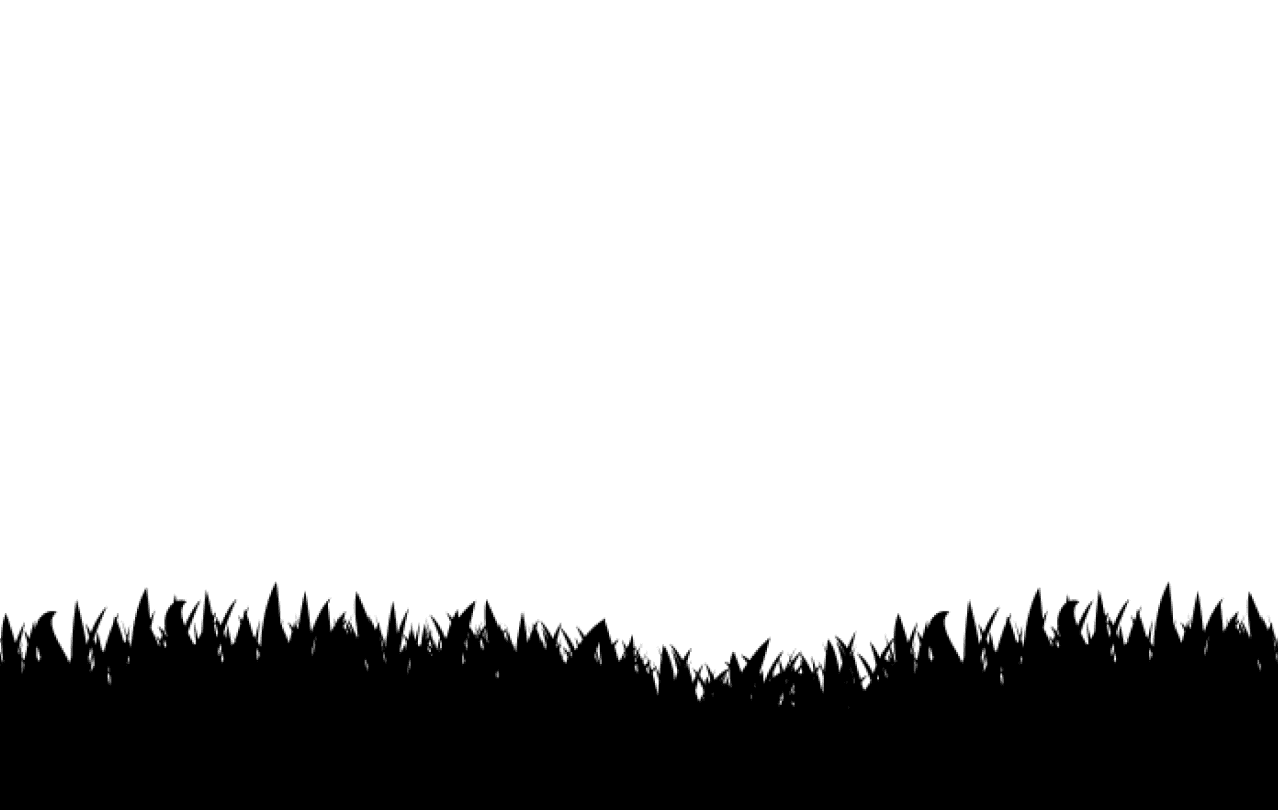
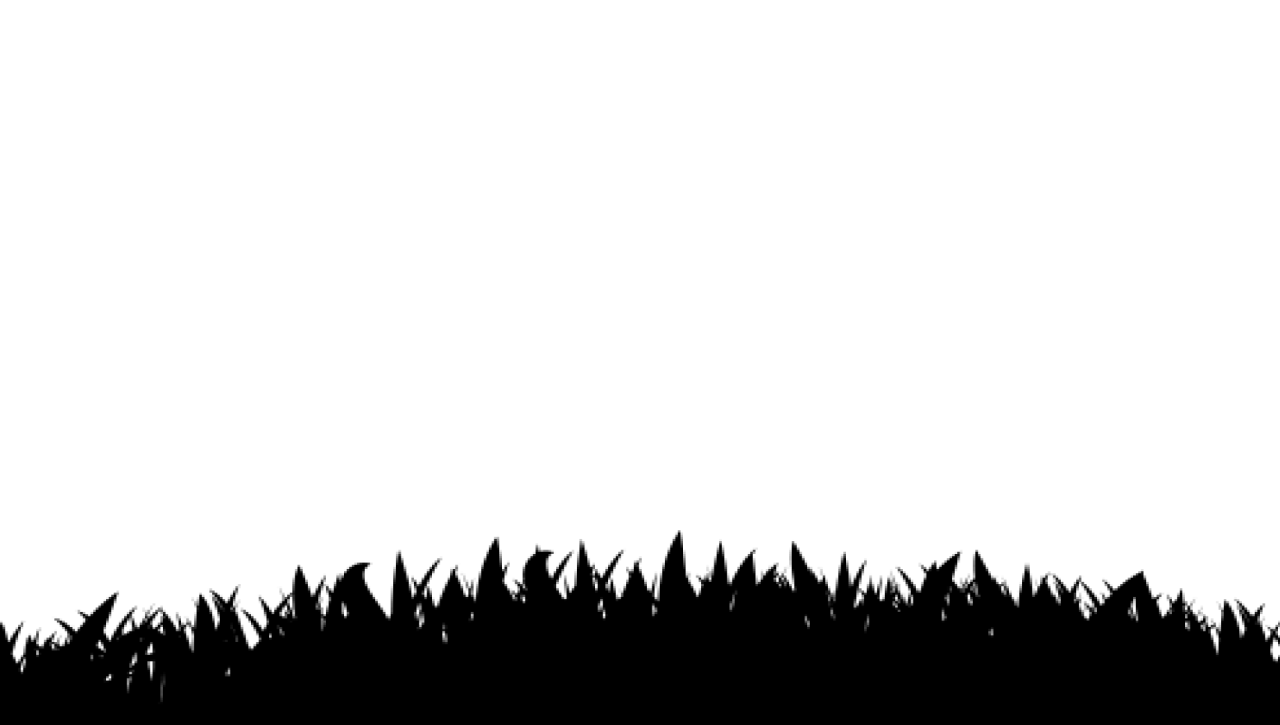
index parallax | land_tour RWD update

Changed region(s): [[0.0, 0.7283, 1.0, 0.9407]]

diff --git a/src/js/land_clock.js b/src/js/land_clock.js
@@ -3,84 +3,167 @@
 $(document).ready(function(){
     //資料庫渲染到前端
 
+    if(window.innerWidth > 576){
+        //網頁版用時鐘位移
+        let event_num =1;
+        let bg_num = 1;
+        setInterval((timeFloat),5000);
+        function timeFloat(){
+            let timeBegin = parseInt($(".progress-ring__circle").css("stroke-dashoffset"));
+            if(timeBegin > "-1472"){
+                //轉場黑幕(1-4)
+                $(".blackCover").animate({"opacity":"1"},{duration:0})
+                $(".blackCover").animate({"opacity":"0.3"},{duration:3000})
     
-    let event_num =1;
-    let bg_num = 1;
-    setInterval((timeFloat),5000);
-    function timeFloat(){
-        let timeBegin = parseInt($(".progress-ring__circle").css("stroke-dashoffset"));
-        if(timeBegin > "-1472"){
-            //轉場黑幕(1-4)
-            $(".blackCover").animate({"opacity":"1"},{duration:0})
-            $(".blackCover").animate({"opacity":"0.3"},{duration:3000})
-
-            //中心文字(隱藏1-4活動)
-            $(`.event-item${event_num}`).css({"display":"none"})
-
-            $(`.ocean${event_num}`).animate({"top":"135px"})
-            $(`.chName${event_num}`).animate({"top":"200px"})
-            $(`.enName${event_num}`).animate({"top":"300px"})
-            $(`.discover${event_num}`).animate({"top":"350px"})
-
-            event_num = event_num + 1;
-
-            //中心文字(顯示1-4活動)
-            $(`.event-item${event_num}`).css({"opacity":"0"})
-            $(`.event-item${event_num}`).css({"display":"block"})
-            $(`.event-item${event_num}`).animate({"opacity":"1"},{duration:3500})
-
-            $(`.ocean${event_num}`).animate({"top":"-65px"},{duration:2000})
-            $(`.chName${event_num}`).animate({"top":"0px"},{duration:2300})
-            $(`.enName${event_num}`).animate({"top":"100px"},{duration:2500})
-            $(`.discover${event_num}`).animate({"top":"150px"},{duration:2500})
-
-            // 流動線圈(1-4)
-            $(".progress-ring__circle").css("stroke-dashoffset",(timeBegin-368))
-
-            //換背景
-            bg_num = bg_num + 1;
-            $("#banner").addClass(`bg${bg_num}`)
-
-            console.log(event_num)
-        }
-
-        else{
-            //轉場黑幕
-            $(".blackCover").animate({"opacity":"1"},{duration:0})
-            $(".blackCover").animate({"opacity":"0.3"},{duration:3000})
-
-            // 流動線圈
-            $(".progress-ring__circle").css("stroke-dashoffset",0)
-
-            //換背景
-            bg_num = 1;
-            $("#banner").removeClass('bg2');
-            $("#banner").removeClass('bg3');
-            $("#banner").removeClass('bg4');
-            $("#banner").removeClass('bg5');
-
-            //中心文字(顯示5活動)
-            $(`.event-item${event_num}`).css({"display":"none"})
-
-            $(`.ocean${event_num}`).animate({"top":"135px"})
-            $(`.chName${event_num}`).animate({"top":"200px"})
-            $(`.enName${event_num}`).animate({"top":"300px"})
-            $(`.discover${event_num}`).animate({"top":"350px"})
-
-            event_num =1
-            
-             //中心文字(顯示5活動)
-             $(`.event-item${event_num}`).css({"opacity":"0"})
-             $(`.event-item${event_num}`).css({"display":"block"})
-             $(`.event-item${event_num}`).animate({"opacity":"1"},{duration:3500})
- 
-             $(`.ocean${event_num}`).animate({"top":"-65px"},{duration:2000})
-             $(`.chName${event_num}`).animate({"top":"0px"},{duration:2300})
-             $(`.enName${event_num}`).animate({"top":"100px"},{duration:2500})
-             $(`.discover${event_num}`).animate({"top":"150px"},{duration:2500})
-            // -------------------------------------------------------------------------------------------------------------------------
-
-            console.log(event_num)
-        }
-    } 
+                //中心文字(隱藏1-4活動)
+                $(`.event-item${event_num}`).css({"display":"none"})
+    
+                $(`.ocean${event_num}`).animate({"top":"135px"})
+                $(`.chName${event_num}`).animate({"top":"200px"})
+                $(`.enName${event_num}`).animate({"top":"300px"})
+                $(`.discover${event_num}`).animate({"top":"350px"})
+    
+                event_num = event_num + 1;
+    
+                //中心文字(顯示1-4活動)
+                $(`.event-item${event_num}`).css({"opacity":"0"})
+                $(`.event-item${event_num}`).css({"display":"block"})
+                $(`.event-item${event_num}`).animate({"opacity":"1"},{duration:3500})
+    
+                $(`.ocean${event_num}`).animate({"top":"-65px"},{duration:2000})
+                $(`.chName${event_num}`).animate({"top":"0px"},{duration:2300})
+                $(`.enName${event_num}`).animate({"top":"100px"},{duration:2500})
+                $(`.discover${event_num}`).animate({"top":"150px"},{duration:2500})
+    
+                // 流動線圈(1-4)
+                $(".progress-ring__circle").css("stroke-dashoffset",(timeBegin-368))
+    
+                //換背景
+                bg_num = bg_num + 1;
+                $("#banner").addClass(`bg${bg_num}`)
+    
+                console.log(event_num)
+            }
+    
+            else{
+                //轉場黑幕
+                $(".blackCover").animate({"opacity":"1"},{duration:0})
+                $(".blackCover").animate({"opacity":"0.3"},{duration:3000})
+    
+                // 流動線圈
+                $(".progress-ring__circle").css("stroke-dashoffset",0)
+    
+                //換背景
+                bg_num = 1;
+                $("#banner").removeClass('bg2');
+                $("#banner").removeClass('bg3');
+                $("#banner").removeClass('bg4');
+                $("#banner").removeClass('bg5');
+    
+                //中心文字(顯示5活動)
+                $(`.event-item${event_num}`).css({"display":"none"})
+    
+                $(`.ocean${event_num}`).animate({"top":"135px"})
+                $(`.chName${event_num}`).animate({"top":"200px"})
+                $(`.enName${event_num}`).animate({"top":"300px"})
+                $(`.discover${event_num}`).animate({"top":"350px"})
+    
+                event_num =1
+                
+                 //中心文字(顯示5活動)
+                 $(`.event-item${event_num}`).css({"opacity":"0"})
+                 $(`.event-item${event_num}`).css({"display":"block"})
+                 $(`.event-item${event_num}`).animate({"opacity":"1"},{duration:3500})
+     
+                 $(`.ocean${event_num}`).animate({"top":"-65px"},{duration:2000})
+                 $(`.chName${event_num}`).animate({"top":"0px"},{duration:2300})
+                 $(`.enName${event_num}`).animate({"top":"100px"},{duration:2500})
+                 $(`.discover${event_num}`).animate({"top":"150px"},{duration:2500})
+                // -------------------------------------------------------------------------------------------------------------------------
+    
+                console.log(event_num)
+            }
+        }    
+    }else{
+        //RWD用時鐘位移
+        let event_num =1;
+        let bg_num = 1;
+        setInterval((timeFloat),5000);
+        function timeFloat(){
+            let timeBegin = parseInt($(".progress-ring__circle").css("stroke-dashoffset"));
+            if(timeBegin > "-1472"){
+                //轉場黑幕(1-4)
+                $(".blackCover").animate({"opacity":"1"},{duration:0})
+                $(".blackCover").animate({"opacity":"0.3"},{duration:3000})
+    
+                //中心文字(隱藏1-4活動)
+                $(`.event-item${event_num}`).css({"display":"none"})
+    
+                $(`.ocean${event_num}`).animate({"top":"135px"})
+                $(`.chName${event_num}`).animate({"top":"200px"})
+                $(`.enName${event_num}`).animate({"top":"300px"})
+                $(`.discover${event_num}`).animate({"top":"350px"})
+    
+                event_num = event_num + 1;
+    
+                //中心文字(顯示1-4活動)
+                $(`.event-item${event_num}`).css({"opacity":"0"})
+                $(`.event-item${event_num}`).css({"display":"block"})
+                $(`.event-item${event_num}`).animate({"opacity":"1"},{duration:3500})
+    
+                $(`.ocean${event_num}`).animate({"top":"-45px"},{duration:2000})
+                $(`.chName${event_num}`).animate({"top":"0px"},{duration:2300})
+                $(`.enName${event_num}`).animate({"top":"50px"},{duration:2500})
+                $(`.discover${event_num}`).animate({"top":"100px"},{duration:2500})
+    
+                // 流動線圈(1-4)
+                $(".progress-ring__circle").css("stroke-dashoffset",(timeBegin-368))
+    
+                //換背景
+                bg_num = bg_num + 1;
+                $("#banner").addClass(`bg${bg_num}`)
+    
+                console.log(event_num)
+            }
+    
+            else{
+                //轉場黑幕
+                $(".blackCover").animate({"opacity":"1"},{duration:0})
+                $(".blackCover").animate({"opacity":"0.3"},{duration:3000})
+    
+                // 流動線圈
+                $(".progress-ring__circle").css("stroke-dashoffset",0)
+    
+                //換背景
+                bg_num = 1;
+                $("#banner").removeClass('bg2');
+                $("#banner").removeClass('bg3');
+                $("#banner").removeClass('bg4');
+                $("#banner").removeClass('bg5');
+    
+                //中心文字(顯示5活動)
+                $(`.event-item${event_num}`).css({"display":"none"})
+    
+                $(`.ocean${event_num}`).animate({"top":"135px"})
+                $(`.chName${event_num}`).animate({"top":"200px"})
+                $(`.enName${event_num}`).animate({"top":"300px"})
+                $(`.discover${event_num}`).animate({"top":"350px"})
+    
+                event_num =1
+                
+                 //中心文字(顯示5活動)
+                 $(`.event-item${event_num}`).css({"opacity":"0"})
+                 $(`.event-item${event_num}`).css({"display":"block"})
+                 $(`.event-item${event_num}`).animate({"opacity":"1"},{duration:3500})
+     
+                 $(`.ocean${event_num}`).animate({"top":"-45px"},{duration:2000})
+                 $(`.chName${event_num}`).animate({"top":"0px"},{duration:2300})
+                 $(`.enName${event_num}`).animate({"top":"50px"},{duration:2500})
+                 $(`.discover${event_num}`).animate({"top":"100px"},{duration:2500})
+                // -------------------------------------------------------------------------------------------------------------------------
+    
+                console.log(event_num)
+            }
+        } 
+    }
 })

diff --git a/src/sass/land_tour.scss b/src/sass/land_tour.scss
@@ -137,7 +137,7 @@
                     .chName {
                         position: relative;
                         line-height: 1;
-                        font-size: 60px;
+                        font-size: 80px;
                         letter-spacing: 3px;
                         text-align: center;
                         text-shadow: gray 5px 5px 5px;
@@ -1498,6 +1498,21 @@
 @media screen and (max-width: 575.98px) {
     .land_tour {
         main {
+            .banner{
+
+                .schedule-wrapper{
+                    .event-item{
+                        .ocean{
+                            font-size: 24px;
+                        }
+    
+                        .enName{
+                            font-size: 24px;
+                        }
+                    }
+                }
+            }
+            
             .breadcrumbs {
                 .wrapper {
                     width: 100%;

diff --git a/src/js/index.js b/src/js/index.js
@@ -11,18 +11,18 @@ const grass = document.querySelector('.grass');
 
 
 window.addEventListener('scroll', function(){
-    let value = window.scrollY - 100;
+    let value = window.scrollY - 120;
     // console.log(value);
     text.style.top =  value * .07 + '%';
     muntain02.style.top =  value * -.02 + '%';
     muntain03.style.top =  value * -.008 + '%';
-    bird.style.top =  value * -.06+ '%';
+    bird.style.top =  value * -.06 + '%';
     tree01.style.top =  value * -.01+ '%';
-    tree02.style.top =  value * .01+ '%';
+    tree02.style.top =  value * .02+ '%';
     sun.style.top =  value * -.08 + '%';
     cloud01.style.left =  value * -.03+ '%';
     cloud02.style.left =  value * .03+ '%';
-    grass.style.top =  value * -.008+ '%';
+    // grass.style.top =  value * -.005+ '%';
 });
 
 

diff --git a/src/css/land_tour.css b/src/css/land_tour.css
@@ -115,7 +115,7 @@
 .land_tour main .banner .schedule-wrapper .event-item .chName {
   position: relative;
   line-height: 1;
-  font-size: 60px;
+  font-size: 80px;
   letter-spacing: 3px;
   text-align: center;
   text-shadow: gray 5px 5px 5px;
@@ -1103,6 +1103,12 @@
 }
 
 @media screen and (max-width: 575.98px) {
+  .land_tour main .banner .schedule-wrapper .event-item .ocean {
+    font-size: 24px;
+  }
+  .land_tour main .banner .schedule-wrapper .event-item .enName {
+    font-size: 24px;
+  }
   .land_tour main .breadcrumbs .wrapper {
     width: 100%;
   }

diff --git a/src/index.html b/src/index.html
@@ -56,7 +56,9 @@
             <img src="./img/index/cloud02.png" id="cloud02">
             <img src="./img/index/bird.png" class="bird">
             <img src="./img/index/grass.png" class="grass">
-            <img src="./img/index/grass.png" class="grass01">
+            <img src="./img/index/grass02.png" class="grass02">
+            <!-- <img src="./img/index/grass03.png" class="grass03"> -->
+
         </section>
         <section class="news">
             <div class="news_title">

diff --git a/src/sass/sea.scss b/src/sass/sea.scss
@@ -2941,7 +2941,7 @@ h1, h2, h3, h4, h5, h6, p{
                                /* top: -65px; */
                                top: 100px;
                                width:100%;
-                               font-size:28px;
+                               font-size:24px;
                                letter-spacing: 3px;
                                font-weight:lighter;
                                text-transform:uppercase;
